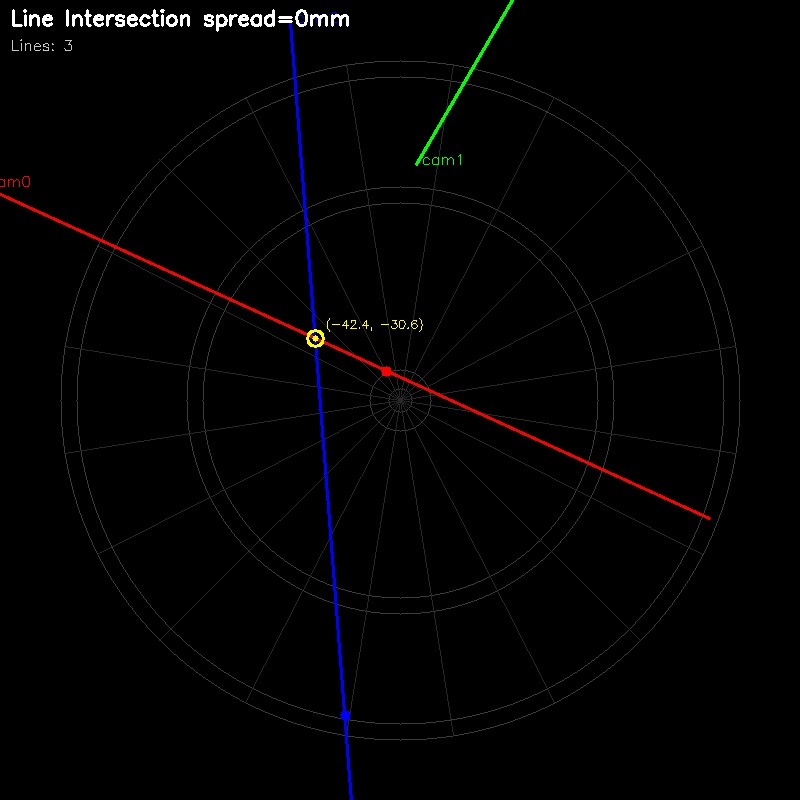
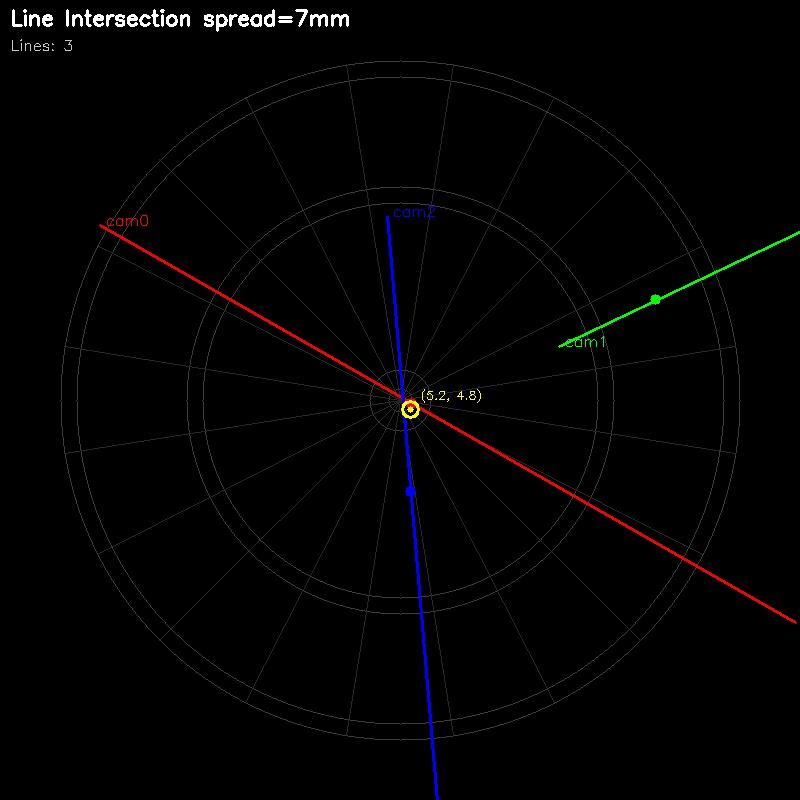
fix: use bull-to-origin verification for homography alignment

diff --git a/app/api/routes.py b/app/api/routes.py
@@ -2803,52 +2803,49 @@ def compute_homography_for_camera(camera_id: str, polygon_calibration) -> bool:
         src_points = np.array(polygon_calibration.double_outers, dtype=np.float32)
         bull = polygon_calibration.bull
         
-        # Compute angle of each polygon point from bull center
-        poly_angles = []
-        for pt in polygon_calibration.double_outers:
-            dx = pt[0] - bull[0]
-            dy = pt[1] - bull[1]
-            angle = math.degrees(math.atan2(dy, dx))  # -180 to 180
-            poly_angles.append(angle)
+        # Find correct alignment by testing all 20 rotations
+        # For each rotation, compute homography and check if bull maps to (0,0)mm
+        # The correct rotation will have bull closest to origin
         
-        # Standard boundary angles: boundary 0 (20/1) is at -81°, each +18° clockwise
-        # In image coords, Y is flipped, so clockwise in image = clockwise on board
-        std_boundary_angles = [(-81 + i * 18 + 180) % 360 - 180 for i in range(20)]
+        # Try both boundary points and center points
+        standard_boundary = get_standard_board_boundary_points()
+        standard_center = get_standard_board_points()
         
-        # Find which polygon point best matches boundary 0 (the 20/1 boundary at -81°)
-        # Normalize polygon angles to same range
-        target_angle = std_boundary_angles[0]  # -81°
-        
-        # Find best match by checking angular distance for each polygon point
         best_offset = 0
-        best_score = float('inf')
+        best_bull_dist = float('inf')
+        best_point_type = "boundary"
         
-        for offset in range(20):
-            # If polygon points start at 'offset' positions from boundary 0
-            total_error = 0
-            for i in range(20):
-                poly_idx = (i + offset) % 20
-                poly_a = poly_angles[poly_idx]
-                std_a = std_boundary_angles[i]
+        bull_px = np.array([[bull[0], bull[1]]], dtype=np.float32).reshape(-1, 1, 2)
+        
+        for point_type, standard_pts in [("boundary", standard_boundary), ("center", standard_center)]:
+            for offset in range(20):
+                rotated = standard_pts[offset:] + standard_pts[:offset]
+                dst_test = np.array(rotated, dtype=np.float32)
                 
-                # Angular difference (handle wrap-around)
-                diff = abs(((poly_a - std_a) + 180) % 360 - 180)
-                total_error += diff
-            
-            if total_error < best_score:
-                best_score = total_error
-                best_offset = offset
+                H_test, _ = cv2.findHomography(src_points, dst_test, cv2.RANSAC, 5.0)
+                if H_test is None:
+                    continue
+                
+                # Transform bull through this homography
+                bull_mm = cv2.perspectiveTransform(bull_px, H_test).reshape(-1, 2)[0]
+                bull_dist = math.sqrt(bull_mm[0]**2 + bull_mm[1]**2)
+                
+                if bull_dist < best_bull_dist:
+                    best_bull_dist = bull_dist
+                    best_offset = offset
+                    best_point_type = point_type
         
-        avg_error = best_score / 20
-        
-        # Generate destination points: rotate standard boundary mm coords to match polygon order
-        standard_pts = get_standard_board_boundary_points()
+        # Use the best rotation
+        if best_point_type == "boundary":
+            standard_pts = standard_boundary
+        else:
+            standard_pts = standard_center
         rotated_dst = standard_pts[best_offset:] + standard_pts[:best_offset]
         dst_points = np.array(rotated_dst, dtype=np.float32)
         
-        logger.info(f"[HOMOGRAPHY] {camera_id}: best_offset={best_offset}, avg_angle_error={avg_error:.1f}°")
+        logger.info(f"[HOMOGRAPHY] {camera_id}: offset={best_offset}, type={best_point_type}, bull_dist={best_bull_dist:.1f}mm")
         with open(r'C:\Users\clawd\skel_debug.txt', 'a') as dbg:
-            dbg.write(f'[HOMOGRAPHY] {camera_id}: offset={best_offset}, avg_err={avg_error:.1f}°, poly_angle[0]={poly_angles[0]:.1f}°\n')
+            dbg.write(f'[HOMOGRAPHY] {camera_id}: offset={best_offset}, type={best_point_type}, bull_err={best_bull_dist:.1f}mm\n')
         
         # Compute homography: maps pixels -> mm
         H, mask = cv2.findHomography(src_points, dst_points, cv2.RANSAC, 5.0)
